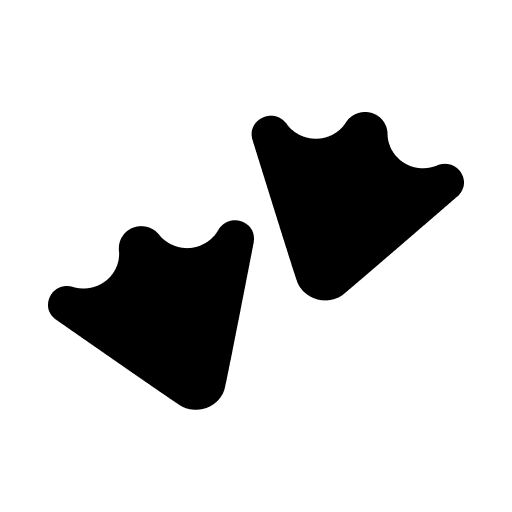
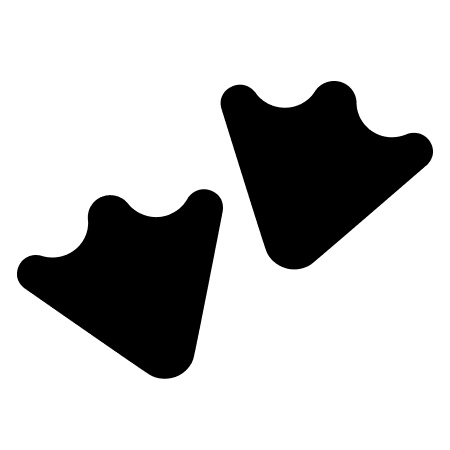
updated image and tool titles

diff --git a/src/mcp_server_motherduck/server.py b/src/mcp_server_motherduck/server.py
@@ -122,6 +122,7 @@ def create_mcp_server(
     # Register query tool
     @mcp.tool(
         name="execute_query",
+        title="Execute Query",
         description="Execute a SQL query on the DuckDB or MotherDuck database. Unqualified table names resolve to current_database() and current_schema() automatically. Fully qualified names (database.schema.table) are only needed when connected to MotherDuck or when multiple databases are attached.",
         annotations=query_annotations,
     )
@@ -147,6 +148,7 @@ def create_mcp_server(
     # Register list_databases tool
     @mcp.tool(
         name="list_databases",
+        title="List Databases",
         description="List all databases available in the connection. Typically useful when connected to MotherDuck or when multiple databases are attached to DuckDB.",
         annotations=catalog_annotations,
     )
@@ -163,6 +165,7 @@ def create_mcp_server(
     # Register list_tables tool
     @mcp.tool(
         name="list_tables",
+        title="List Tables",
         description="List all tables and views in a database with their comments. If database is not specified, uses the current database.",
         annotations=catalog_annotations,
     )
@@ -183,6 +186,7 @@ def create_mcp_server(
     # Register list_columns tool
     @mcp.tool(
         name="list_columns",
+        title="List Columns",
         description="List all columns of a table or view with their types and comments. If database/schema are not specified, uses the current database/schema.",
         annotations=catalog_annotations,
     )
@@ -208,6 +212,7 @@ def create_mcp_server(
 
         @mcp.tool(
             name="switch_database_connection",
+            title="Switch Database Connection",
             description="Switch to a different database connection. For local files, use absolute paths only. The new connection respects the server's read-only/read-write mode. For local files, the file must exist unless create_if_not_exists=True (requires read-write mode).",
             annotations=switch_db_annotations,
         )
